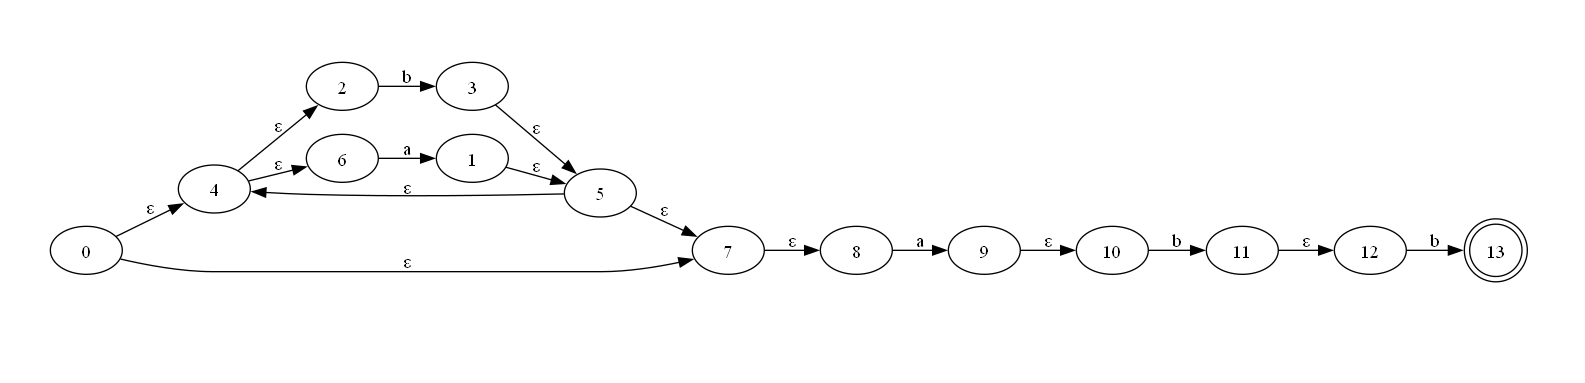
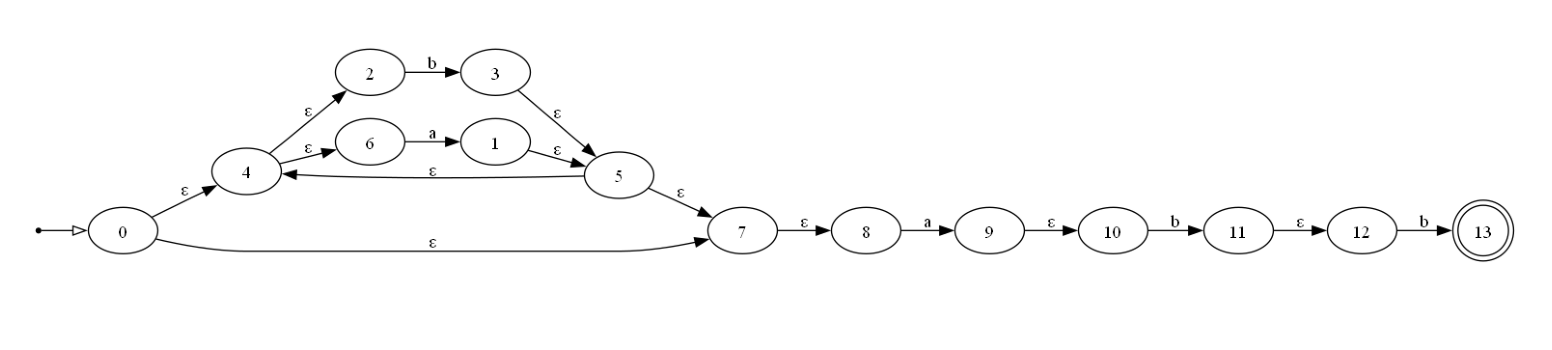
添加绘制初态箭头模块

Changed region(s): [[0.0309, 0.1429, 0.9897, 0.7429]]

diff --git a/main.py b/main.py
@@ -16,8 +16,14 @@ def create_graph(nodes, edges):
 
     # 添加节点
     for node in nodes:
+        if node[2] == 'begin':
+            # 创建一个虚拟节点
+            dot.node('begin_node', label='', shape='point')   
+            # 从虚拟节点指向目标节点
+            dot.edge('begin_node', str(node[0]), arrowhead='onormal') 
+        
         # 检查节点是否为"结束"节点，如果是，则添加两个环的标记
-        if node[2] == 'end':
+        if node[3] == 'end':
             dot.node(str(node[0]), node[1], shape='doublecircle')
         else:
             dot.node(str(node[0]), node[1])

diff --git a/README.md b/README.md
@@ -3,19 +3,22 @@
 ## 运行说明
 
 ```shell
+# 如果没有安装 pipenv
+pip install pipenv
 # 进入项目的虚拟环境
 pipenv shell
+# 启动图形界面
+python main.py
 ```
-- 如果报错，Add [Graphviz](https://graphviz.org/download/) 环境变量后 **重启**
+- 如果报错，添加 [Graphviz](https://graphviz.org/download/) 环境变量后 **重启**
 
 ## 数据输入输出格式
 
 ### 输入：正则表达式
 - 闭包运算符（*）、连接符（.）、运算符（|）和括号
-  > 连接符（.）可省略 
   - 运算符的优先级依次递减
-- 支持的字符范围：大小写字母和数字 `[a-zA-Z0-9]`
-  - e.g. `(a|b)*abb`   
+  - 连接符（.）可省略 
+- e.g. `(a|b)*abb`   
 
 ### 输出：终端 + 图形界面
 
